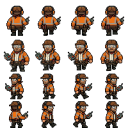
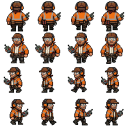
Hud and Health

diff --git a/src/main.js b/src/main.js
@@ -5,11 +5,11 @@ import Phaser, { Physics } from 'phaser'
 
 const sizes = {
   screenWidth:512,
-  screenHeight:544,
+  screenHeight:512 + 50,
   tileSize:32,
   mapSize:16,
   explosionSize:4,
-  hudHeight:32
+  hudHeight:50
 }
 
 const speedDown = 150;
@@ -19,7 +19,19 @@ function calculateCordinateX(x) {
 }
   
 function calculateCordinateY(y) {
-  return Math.round(y / sizes.tileSize)
+  return Math.round((y - sizes.hudHeight) / sizes.tileSize)
+}
+
+function calculateCordinateXpx(x) {
+  return x * sizes.tileSize
+}
+  
+function calculateCordinateYpx(y) {
+  return y * sizes.tileSize + sizes.hudHeight
+}
+
+function playertHit(hp) {
+  return hp--
 }
 
 class GameScene extends Phaser.Scene {
@@ -31,6 +43,8 @@ class GameScene extends Phaser.Scene {
     this.bomb
     this.destroyedBlocks
     this.explosion
+    this.playerHP = 3
+    this.playerOrangeHPText
   }
 
   preload() {
@@ -49,7 +63,7 @@ class GameScene extends Phaser.Scene {
     // Player sprite
     this.load.spritesheet('player', 'assets/player_movement.png', {
       frameWidth: sizes.tileSize,
-      frameHeight: sizes.tileSize
+      frameHeight: sizes.tileSize,
     })
 
     //Robbanás effect
@@ -91,18 +105,18 @@ class GameScene extends Phaser.Scene {
 
     const tileset = map.addTilesetImage('tiles', 'tiles')
 
-    const bgLayer = map.createBlankLayer('bg', tileset)
-    const blocklayer = map.createBlankLayer('block', tileset)
+    const bgLayer = map.createBlankLayer('bg', tileset, 0, sizes.hudHeight)
+    const blocklayer = map.createBlankLayer('block', tileset, 0, sizes.hudHeight)
 
     this.destroyedBlocks = this.physics.add.staticGroup()
 
     mapData.forEach((row, y) => {
       row.forEach((tile, x) => {
-        if (tile === 1) { blocklayer.putTileAt(tile, x, y + 1) }
+        if (tile === 1) { blocklayer.putTileAt(tile, x, y) }
         else if (tile === 2) {
-          bgLayer.putTileAt(0, x, y + 1)
-          this.destroyedBlocks.create(x * sizes.tileSize, (y + 1) * sizes.tileSize, 'tiles', tile).setOrigin(0, 0).refreshBody()} 
-        else { bgLayer.putTileAt(0, x, y + 1) }
+          bgLayer.putTileAt(0, x, y)
+          this.destroyedBlocks.create(calculateCordinateXpx(x) , calculateCordinateYpx(y), 'tiles', tile).setOrigin(0, 0).refreshBody()} 
+        else { bgLayer.putTileAt(0, x, y) }
       })
     })
     
@@ -116,20 +130,20 @@ class GameScene extends Phaser.Scene {
 
     switch (playerStartCorner) {
       case 0: // top-left
-        playerStartX = 1 * sizes.tileSize
-        playerStartY = 1 * sizes.tileSize
+        playerStartX = 1
+        playerStartY = 1
         break
       case 1: // top-right
-        playerStartX = (sizes.mapSize-2) * sizes.tileSize
-        playerStartY = 1 * sizes.tileSize
+        playerStartX = sizes.mapSize-2
+        playerStartY = 1
         break
       case 2: // bottom-left
-        playerStartX = 1 * sizes.tileSize
-        playerStartY = (sizes.mapSize-2) * sizes.tileSize
+        playerStartX = 1
+        playerStartY = sizes.mapSize-2
         break
       case 3: // bottom-right
-        playerStartX = (sizes.mapSize-2) * sizes.tileSize
-        playerStartY = (sizes.mapSize-2) * sizes.tileSize
+        playerStartX = sizes.mapSize-2
+        playerStartY = sizes.mapSize-2
         break 
     }
 
@@ -175,10 +189,16 @@ class GameScene extends Phaser.Scene {
     this.anims.create(walkRight)
     this.anims.create(explosion)
 
-    this.scoreText = this.add.text(10, 10, "cordinate x: 0 y: 0", { font: "16px Arial", fill: "#ffffff" })
+    //kordinátáék számolása
+    this.scoreText = this.add.text(10, sizes.hudHeight + 10, "cordinate x: 0 y: 0", { font: "16px Arial", fill: "#ffffff" })
+
+    //HUD HP and timer
+    this.playerOrangeHPText = this.add.text(5, 5, "Player 1 HP: 3", {font: "16px Arial", fill: "#ffffff" })
+    this.timerText = this.add.text(sizes.screenWidth / 2, 5, "3:00", {font: "16px Arial", fill: "#ffffff" })
+    this.playerBlueHPText = this.add.text(sizes.screenWidth - (this.playerOrangeHPText.width + 5), 5, "Player 2 HP: 3", {font: "16px Arial", fill: "#ffffff" })
 
     //player létrehozása
-    this.player = this.physics.add.sprite(playerStartX, playerStartY, 'player', 0).setOrigin(0, 0)
+    this.player = this.physics.add.sprite(calculateCordinateXpx(playerStartX), calculateCordinateYpx(playerStartY), 'player', 4).setOrigin(0, 0)
     this.player.body.allowGravity = false
     this.player.setCollideWorldBounds(true)
 
@@ -208,7 +228,7 @@ class GameScene extends Phaser.Scene {
 
     if (this.cursor.space.isDown && !this.bomb && this.isExplosionPlaying == false) {
       if (!this.bomb) {
-        this.bomb = this.physics.add.sprite(Math.round(this.player.x / sizes.tileSize)*sizes.tileSize, Math.round(this.player.y / sizes.tileSize)*sizes.tileSize, 'bomb', 0).setOrigin(0, 0)
+        this.bomb = this.physics.add.sprite(calculateCordinateXpx(calculateCordinateX(this.player.x)), calculateCordinateYpx(calculateCordinateY(this.player.y)), 'bomb', 0).setOrigin(0, 0)
         this.bomb.body.allowGravity = false
         this.bomb.body.setImmovable(true)
         this.bomb.setCollideWorldBounds(true)
@@ -234,21 +254,21 @@ class GameScene extends Phaser.Scene {
       for (let i = 1; i < sizes.explosionSize; i++) {
         if (this.mapData[calculateCordinateY(this.bomb.y)][calculateCordinateX(this.bomb.x) + i] === 2) {
           this.destroyedBlocks.getChildren().forEach(block => {
-            if (block.x === (calculateCordinateX(this.bomb.x) + i) * sizes.tileSize && block.y === calculateCordinateY(this.bomb.y) * sizes.tileSize) {
+            if (block.x === calculateCordinateXpx(calculateCordinateX(this.bomb.x) + i) && block.y === calculateCordinateYpx(calculateCordinateY(this.bomb.y))) {
             block.destroy()
             }
           })
-          this.explosion.create((calculateCordinateX(this.bomb.x) + i) * sizes.tileSize, calculateCordinateY(this.bomb.y) * sizes.tileSize, 'explosion', 1).setOrigin(0, 0)
+          this.explosion.create(calculateCordinateXpx(calculateCordinateX(this.bomb.x) + i), calculateCordinateYpx(calculateCordinateY(this.bomb.y)), 'explosion', 1).setOrigin(0, 0)
           this.explosion.getChildren().forEach(explosion => {
-          if(explosion.x === (calculateCordinateX(this.bomb.x) + i) * sizes.tileSize && explosion.y === calculateCordinateY(this.bomb.y) * sizes.tileSize) {
+          if(explosion.x === calculateCordinateXpx(calculateCordinateX(this.bomb.x)) + i && explosion.y === calculateCordinateYpx(calculateCordinateY(this.bomb.y))) {
             explosion.anims.play("explosion", true)
             }
           })
         }
         else if (this.mapData[calculateCordinateY(this.bomb.y)][calculateCordinateX(this.bomb.x) + i] === 0) {
-            this.explosion.create((calculateCordinateX(this.bomb.x) + i) * sizes.tileSize, calculateCordinateY(this.bomb.y) * sizes.tileSize, 'explosion', 1).setOrigin(0, 0)
+            this.explosion.create(calculateCordinateXpx(calculateCordinateX(this.bomb.x) + i), calculateCordinateYpx(calculateCordinateY(this.bomb.y)), 'explosion', 1).setOrigin(0, 0)
             this.explosion.getChildren().forEach(explosion => {
-              if(explosion.x === (calculateCordinateX(this.bomb.x) + i) * sizes.tileSize && explosion.y === calculateCordinateY(this.bomb.y) * sizes.tileSize) {
+              if(explosion.x === calculateCordinateXpx(calculateCordinateX(this.bomb.x)) + i && explosion.y === calculateCordinateYpx(calculateCordinateY(this.bomb.y))) {
                 explosion.anims.play("explosion", true)
               }
             })
@@ -260,21 +280,21 @@ class GameScene extends Phaser.Scene {
       for (let i = 1; i < sizes.explosionSize; i++) {
         if (this.mapData[calculateCordinateY(this.bomb.y)][calculateCordinateX(this.bomb.x) - i] === 2) {
           this.destroyedBlocks.getChildren().forEach(block => {
-            if (block.x === (calculateCordinateX(this.bomb.x) - i) * sizes.tileSize && block.y === calculateCordinateY(this.bomb.y) * sizes.tileSize) {
+            if (block.x === calculateCordinateXpx(calculateCordinateX(this.bomb.x) - i) && block.y === calculateCordinateYpx(calculateCordinateY(this.bomb.y))) {
             block.destroy()
             }
           })
-          this.explosion.create((calculateCordinateX(this.bomb.x) - i) * sizes.tileSize, calculateCordinateY(this.bomb.y) * sizes.tileSize, 'explosion', 1).setOrigin(0, 0)
+          this.explosion.create(calculateCordinateXpx(calculateCordinateX(this.bomb.x) - i), calculateCordinateYpx(calculateCordinateY(this.bomb.y)), 'explosion', 1).setOrigin(0, 0)
           this.explosion.getChildren().forEach(explosion => {
-          if(explosion.x === (calculateCordinateX(this.bomb.x) - i) * sizes.tileSize && explosion.y === calculateCordinateY(this.bomb.y) * sizes.tileSize) {
+          if(explosion.x === calculateCordinateXpx(calculateCordinateX(this.bomb.x)) - i && explosion.y === calculateCordinateYpx(calculateCordinateY(this.bomb.y))) {
             explosion.anims.play("explosion", true)
             }
           })
         }
         else if (this.mapData[calculateCordinateY(this.bomb.y)][calculateCordinateX(this.bomb.x) - i] === 0) {
-            this.explosion.create((calculateCordinateX(this.bomb.x) - i) * sizes.tileSize, calculateCordinateY(this.bomb.y) * sizes.tileSize, 'explosion', 1).setOrigin(0, 0)
+            this.explosion.create(calculateCordinateXpx(calculateCordinateX(this.bomb.x) - i), calculateCordinateYpx(calculateCordinateY(this.bomb.y)), 'explosion', 1).setOrigin(0, 0)
             this.explosion.getChildren().forEach(explosion => {
-              if(explosion.x === (calculateCordinateX(this.bomb.x) - i) * sizes.tileSize && explosion.y === calculateCordinateY(this.bomb.y) * sizes.tileSize) {
+              if(explosion.x === calculateCordinateXpx(calculateCordinateX(this.bomb.x)) - i && explosion.y === calculateCordinateYpx(calculateCordinateY(this.bomb.y))) {
                 explosion.anims.play("explosion", true)
               }
             })
@@ -286,21 +306,21 @@ class GameScene extends Phaser.Scene {
       for (let i = 1; i < sizes.explosionSize; i++) {
         if (this.mapData[calculateCordinateY(this.bomb.y) + i][calculateCordinateX(this.bomb.x)] === 2) {
           this.destroyedBlocks.getChildren().forEach(block => {
-            if (block.x === calculateCordinateX(this.bomb.x) * sizes.tileSize && block.y === (calculateCordinateY(this.bomb.y) + i) * sizes.tileSize) {
+            if (block.x === calculateCordinateXpx(calculateCordinateX(this.bomb.x)) && block.y === calculateCordinateYpx(calculateCordinateY(this.bomb.y) + i)) {
             block.destroy()
             }
           })
-          this.explosion.create(calculateCordinateX(this.bomb.x) * sizes.tileSize, (calculateCordinateY(this.bomb.y) + i) * sizes.tileSize, 'explosion', 1).setOrigin(0, 0)
+          this.explosion.create(calculateCordinateXpx(calculateCordinateX(this.bomb.x)), calculateCordinateYpx(calculateCordinateY(this.bomb.y) + i), 'explosion', 1).setOrigin(0, 0)
           this.explosion.getChildren().forEach(explosion => {
-          if(explosion.x === calculateCordinateX(this.bomb.x) * sizes.tileSize && explosion.y === (calculateCordinateY(this.bomb.y) + i) * sizes.tileSize) {
+          if(explosion.x === calculateCordinateX(this.bomb.x) && explosion.y === calculateCordinateY(this.bomb.y) + i) {
             explosion.anims.play("explosion", true)
             }
           })
         }
         else if (this.mapData[calculateCordinateY(this.bomb.y) + i][calculateCordinateX(this.bomb.x)] === 0) {
-            this.explosion.create(calculateCordinateX(this.bomb.x) * sizes.tileSize, (calculateCordinateY(this.bomb.y) + i) * sizes.tileSize, 'explosion', 1).setOrigin(0, 0)
+            this.explosion.create(calculateCordinateXpx(calculateCordinateX(this.bomb.x)), calculateCordinateYpx(calculateCordinateY(this.bomb.y) + i), 'explosion', 1).setOrigin(0, 0)
             this.explosion.getChildren().forEach(explosion => {
-              if(explosion.x === calculateCordinateX(this.bomb.x) * sizes.tileSize && explosion.y === (calculateCordinateY(this.bomb.y) + i) * sizes.tileSize) {
+              if(explosion.x === calculateCordinateX(this.bomb.x) && explosion.y === calculateCordinateY(this.bomb.y) + i) {
                 explosion.anims.play("explosion", true)
               }
             })
@@ -312,21 +332,21 @@ class GameScene extends Phaser.Scene {
       for (let i = 1; i < sizes.explosionSize; i++) {
         if (this.mapData[calculateCordinateY(this.bomb.y) - i][calculateCordinateX(this.bomb.x)] === 2) {
           this.destroyedBlocks.getChildren().forEach(block => {
-            if (block.x === calculateCordinateX(this.bomb.x) * sizes.tileSize && block.y === (calculateCordinateY(this.bomb.y) - i) * sizes.tileSize) {
+            if (block.x === calculateCordinateXpx(calculateCordinateX(this.bomb.x)) && block.y === calculateCordinateYpx(calculateCordinateY(this.bomb.y) - i)) {
             block.destroy()
             }
           })
-          this.explosion.create(calculateCordinateX(this.bomb.x) * sizes.tileSize, (calculateCordinateY(this.bomb.y) - i) * sizes.tileSize, 'explosion', 1).setOrigin(0, 0)
+          this.explosion.create(calculateCordinateXpx(calculateCordinateX(this.bomb.x)), calculateCordinateYpx(calculateCordinateY(this.bomb.y) - i), 'explosion', 1).setOrigin(0, 0)
           this.explosion.getChildren().forEach(explosion => {
-          if(explosion.x === calculateCordinateX(this.bomb.x) * sizes.tileSize && explosion.y === (calculateCordinateY(this.bomb.y) - i) * sizes.tileSize) {
+          if(explosion.x === calculateCordinateX(this.bomb.x) && explosion.y === calculateCordinateY(this.bomb.y) - i) {
             explosion.anims.play("explosion", true)
             }
           })
         }
         else if (this.mapData[calculateCordinateY(this.bomb.y) - i][calculateCordinateX(this.bomb.x)] === 0) {
-            this.explosion.create(calculateCordinateX(this.bomb.x) * sizes.tileSize, (calculateCordinateY(this.bomb.y) - i) * sizes.tileSize, 'explosion', 1).setOrigin(0, 0)
+            this.explosion.create(calculateCordinateXpx(calculateCordinateX(this.bomb.x)), calculateCordinateYpx(calculateCordinateY(this.bomb.y) - i), 'explosion', 1).setOrigin(0, 0)
             this.explosion.getChildren().forEach(explosion => {
-              if(explosion.x === calculateCordinateX(this.bomb.x) * sizes.tileSize && explosion.y === (calculateCordinateY(this.bomb.y) - i) * sizes.tileSize) {
+              if(explosion.x === calculateCordinateX(this.bomb.x) && explosion.y === calculateCordinateY(this.bomb.y) - i) {
                 explosion.anims.play("explosion", true)
               }
             })
@@ -336,7 +356,8 @@ class GameScene extends Phaser.Scene {
     
       setTimeout(() => {
         this.explosion.getChildren().slice().forEach(explosion => {
-        explosion.destroy()
+          if (calculateCordinateX(explosion.x) == calculateCordinateX(this.player.x) && calculateCordinateY(explosion.y) == calculateCordinateY(this.player.y)) {this.playerOrangeHPText.setText(`Player 1 HP: ${playertHit(this.playerHP)}`)}
+          explosion.destroy()
         })
         this.isExplosionPlaying = false
       }, 800)
@@ -367,6 +388,7 @@ class GameScene extends Phaser.Scene {
         this.player.anims.stop();
     }
   }
+
 }
 
 const gameCanvas = document.getElementById('gameCanvas')
